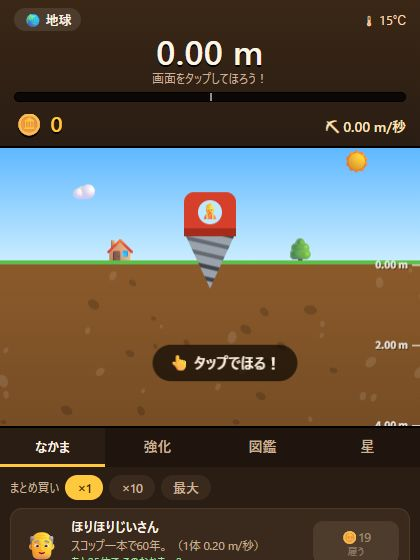
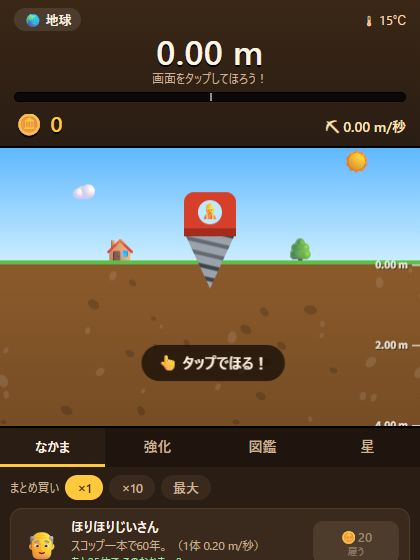
自動公開 / 更新: 地球つらぬきドリル

Changed region(s): [[0.3405, 0.6071, 0.7119, 0.6982], [0.8048, 0.9411, 0.8976, 0.9714]]

diff --git a/apps/tsuranuki-drill/index.html b/apps/tsuranuki-drill/index.html
@@ -215,7 +215,7 @@ const PLANETS=[
    layers:[[0,'soil'],[30,'clay'],[300,'rock'],[3000,'crust'],[35e3,'um'],[660e3,'lm'],[2900e3,'oc'],[5150e3,'ic'],[7592e3,'oc'],[9842e3,'lm'],[12082e3,'um'],[12707e3,'crust'],[12738e3,'sea']],
    temp:[[0,15],[3000,90],[35e3,900],[660e3,1900],[2900e3,3700],[5150e3,5400],[6371e3,6000]],
    miles:[[3,'🕳 落とし穴くらいの深さ'],[10,'🏢 ビル3階ぶんほった！'],[60,'🗼 東京タワーの展望台ぶん…の下へ'],[333,'🗼 東京タワーの高さぶんほった！'],[634,'🗼 スカイツリーの高さぶん！'],[828,'🏙 世界一高いビルぶん！'],[3776,'🗻 富士山の高さぶん！'],[8849,'🏔 エベレストの高さぶん！'],[10920,'🌊 世界一深い海（マリアナ海溝）よりも深い！'],[12262,'🏆 人類最深の穴（コラ超深度掘削坑）をこえた！'],[35e3,'🔥 地殻をぬけた！ここからマントル'],[2900e3,'🌊 液体の鉄の海に突入！'],[6371e3,'🌏 地球の中心に到着！ここから先は「上」にほる！'],[9000e3,'↗ 帰り道も半分すぎた'],[12707e3,'🌎 地殻にもどってきた！もうすぐ反対側！']],
-   arrive:{big:'🌊🇧🇷',t:'地球つらぬき成功！',x:'ザッパーン！ブラジル沖の大西洋に飛び出した！日本のちょうど反対側は、海の上だったんだ。'}},
+   arrive:{big:'🌊🐬',t:'地球つらぬき成功！',x:'ザッパーン！ブラジル沖の大西洋に飛び出した！日本のちょうど反対側は、海の上だったんだ。'}},
   {n:'天王星',e:'🪐',D:51118e3,medal:2,bg:'space',sc:'#9fe3ea',
    layers:mkLayers(51118e3,[[0,'ucl'],[0.03,'uat'],[0.25,'uic'],[0.8,'uco']]),
    temp:[[0,-220],[0.03,-200],[0.25,2000],[0.8,4700],[1,5000]],
@@ -286,7 +286,7 @@ function val(d){const f=d/P().D;let v=1;for(const [a,b] of VF)if(f>=a)v=b;return
 function income(){return baseDps()*val(S.depth)*sellMult()}
 function treasureInt(){return 30*Math.pow(0.85,S.up.radar)}
 function unitCost(i,n){n=n??S.units[i];return UNITS[i][4]*Math.pow(1.2,n)}
-function bulkCost(i,k){const a=unitCost(i);return a*(Math.pow(1.2,k)-1)/0.2}
+function bulkCost(i,k){const a=unitCost(i);return Math.ceil(a*(Math.pow(1.2,k)-1)/0.2-1e-6)}
 function maxBuy(i){const a=unitCost(i);if(S.coins<a)return 0;return Math.floor(Math.log(S.coins*0.2/a+1)/Math.log(1.2))}
 function layerIdx(d){const L=P().layers;let k=0;for(let i=0;i<L.length;i++)if(d>=L[i][0])k=i;return k}
 function layerAt(d){return T[P().layers[layerIdx(d)][1]]}
@@ -390,7 +390,7 @@ function draw(dt){
   // 背景（スタート地点）
   if(top>0){
     if(p.bg==='earth'){const g=ctx.createLinearGradient(0,0,0,top);g.addColorStop(0,'#5fb8ff');g.addColorStop(1,'#cdeeff');ctx.fillStyle=g;ctx.fillRect(0,0,W,top);
-      ctx.font=`26px ${EMO}`;ctx.textAlign='center';ctx.textBaseline='bottom';ctx.fillText('🏠',cx-90,top+2);ctx.fillText('🌳',cx+90,top+2);ctx.fillText('🇯🇵',cx+40,top+2);ctx.font=`22px ${EMO}`;ctx.fillText('☁',W*0.2,top-60);ctx.fillText('☀',W*0.85,top-90);
+      ctx.font=`26px ${EMO}`;ctx.textAlign='center';ctx.textBaseline='bottom';ctx.fillText('🏠',cx-90,top+2);ctx.fillText('🌳',cx+90,top+2);ctx.font=`22px ${EMO}`;ctx.fillText('☁',W*0.2,top-60);ctx.fillText('☀',W*0.85,top-90);
       ctx.fillStyle='#5cbf4a';ctx.fillRect(0,top-4,W,6)}
     else drawSpace(0,top,p.sc);
   }
